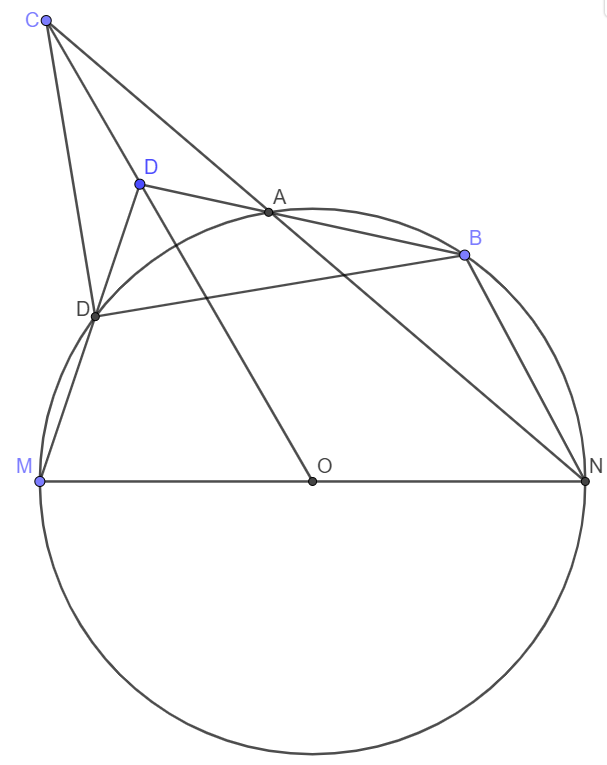
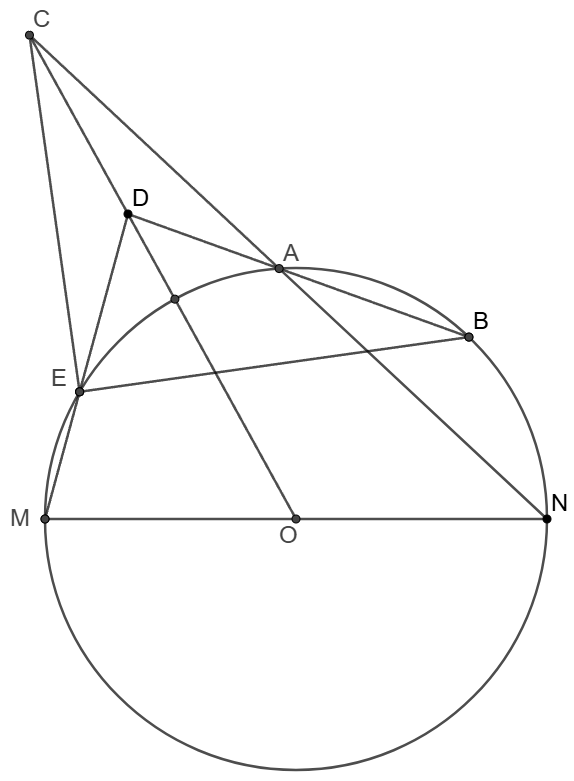
feat: add posts

diff --git a/_posts/2020-11-12-wo.md b/_posts/2020-11-12-wo.md
@@ -239,9 +239,10 @@ $OO_1^2 + CO_1^2 = CO^2 = 6^2 \implies CO_1^2 = 24 \implies CD = \bbox[1px, bord
 
 ### 11/13/2020
 
-#### Point D is outside of circle O with diameter MN. From D make two lines DM and DB with points D, A and B on the circle O. Extend OD and NA to intersect at point C. Prove that $CD \perp DB$.
+#### Point $C$ is outside of $\odot{O}$ with diameter $MN$.  $CN$ meets $\odot{O}$ at $A$, $E$ is on $\odot{O}$  and $ME \cap CO=D$, $DA$ meets $\odot{O}$ at $B$ , prove that $CE \perp BE$.
 
-![image-20201113073810590](/assets/images/2020/image-20201113073810590.png){:class="image--x2l"}
+![image-20260608142653144](/assets/images/2020/image-20201113073810590.png)
+
 ---
 
 ### 11/14/2020
@@ -514,7 +515,7 @@ So the solution is $r^2=\bbox[1px, border: 1px solid black]{51}$.
 
 ---
 
-### 11/30/2020
+### 11/29/2020
 
 #### Solve over the integers: $615+x^2=2^y$
 